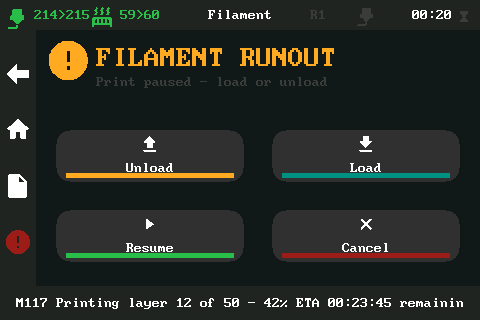
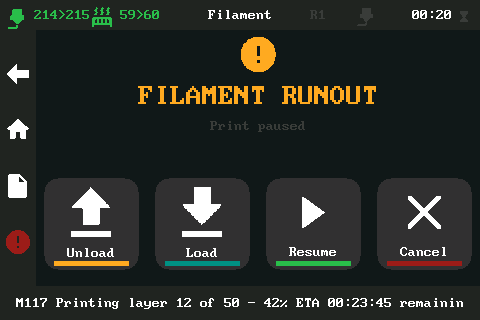
gui: runout screen - centred text, four buttons on the bottom row

Changed region(s): [[0.0938, 0.375, 1.0, 0.8438], [0.1875, 0.0938, 0.7812, 0.3438], [0.0938, 0.125, 0.4688, 0.25]]

diff --git a/mcu/st7796.py b/mcu/st7796.py
@@ -3672,24 +3672,22 @@ class ST7796:
         ops.append(lambda bx=bx, by=by, bw=bw, bh=bh: self.cmd_rect.send(
             [bx + 10, by + bh - 9, bw - 20, 5, COL_OK]))
     def _filout_btns(self):
-        x0 = self.RAIL_W + 12
-        w = self.width - self.RAIL_W - 24
-        bw = (w - 12) // 2
-        y0 = self.TOP_H + 92
-        bh = (self.height - self.STRIP_H - y0 - 16 - 12) // 2
-        return [('unload', x0, y0, bw, bh),
-                ('load', x0 + bw + 12, y0, bw, bh),
-                ('resume', x0, y0 + bh + 12, bw, bh),
-                ('cancel', x0 + bw + 12, y0 + bh + 12, bw, bh)]
+        # 4 across, on the bottom row of a 2x4 grid; the text sits on top.
+        bw = (self.width - self.RAIL_W) // 4
+        bh = 108
+        y = self.height - self.STRIP_H - bh - 8
+        return [(k, self.RAIL_W + i * bw, y, bw, bh)
+                for i, k in enumerate(('unload', 'load', 'resume', 'cancel'))]
     def _filout_view_ops(self, ops, eventtime):
-        ops.append(lambda: self._gui_icon_at(
-            'alert', self.RAIL_W + 12, self.TOP_H + 10, COL_WARN, COL_BG, 40))
-        ops.append(lambda: self._gui_text(self.RAIL_W + 60, self.TOP_H + 12,
-                                          "FILAMENT RUNOUT", COL_WARN,
-                                          COL_BG, 2))
-        ops.append(lambda: self._gui_text(self.RAIL_W + 60, self.TOP_H + 44,
-                                          "Print paused - load or unload",
-                                          COL_DIM, COL_BG, 1))
+        cx = self.RAIL_W + (self.width - self.RAIL_W) // 2
+        ops.append(lambda: self._gui_icon_at('alert', cx - 18, self.TOP_H + 6,
+                                             COL_WARN, COL_BG, 36))
+        ops.append(lambda: self._gui_text_center(
+            self.RAIL_W, self.width - self.RAIL_W, self.TOP_H + 50,
+            "FILAMENT RUNOUT", COL_WARN, COL_BG, 2))
+        ops.append(lambda: self._gui_text_center(
+            self.RAIL_W, self.width - self.RAIL_W, self.TOP_H + 88,
+            "Print paused", COL_DIM, COL_BG, 1))
         for (kind, x, y, w, h) in self._filout_btns():
             icon, acc = {'unload': ('unload', COL_WARN),
                          'load': ('load', COL_C3),
